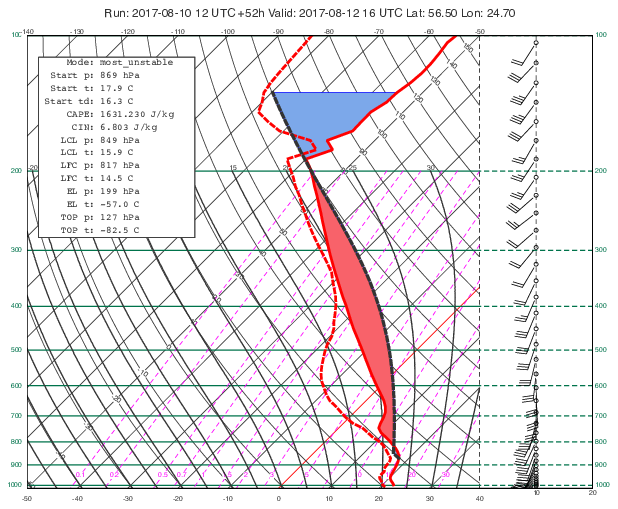
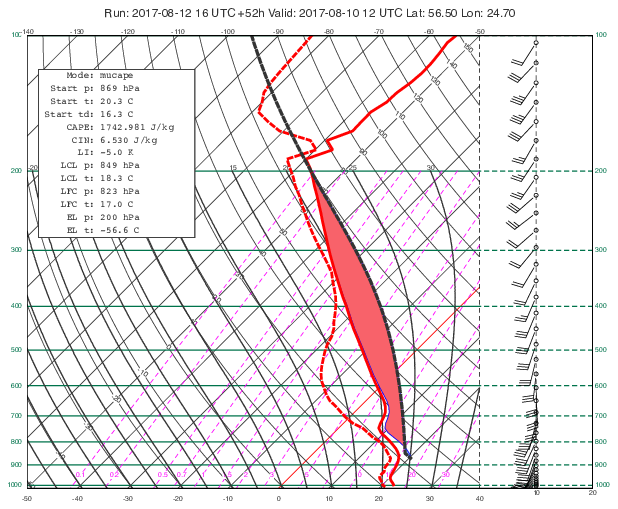
Add and update parcel path gallery examples

diff --git a/docs/gallery/parcel_path_multiple_start_conditions.py b/docs/gallery/parcel_path_multiple_start_conditions.py
@@ -1,0 +1,242 @@
+"""
+GRIB - Multiple parcel path start conditions on Skew-T
+"""
+
+# (C) Copyright 2017- ECMWF.
+#
+# This software is licensed under the terms of the Apache Licence Version 2.0
+# which can be obtained at http://www.apache.org/licenses/LICENSE-2.0.
+#
+# In applying this licence, ECMWF does not waive the privileges and immunities
+# granted to it by virtue of its status as an intergovernmental organisation
+# nor does it submit to any jurisdiction.
+#
+
+import metview as mv
+
+# Note: at least Metview version 5.17.0 is required
+
+
+def make_title_text(prof):
+    """
+    Utility function to generate text for plot title
+    """
+
+    # get profile info for title
+    info = mv.thermo_data_info(prof)
+
+    # obs
+    if "station" in info:
+        t1 = "{} {} UTC WMO Id: {}".format(
+            int(info["date"]), int(info["time"]), int(info["station"])
+        )
+    # fc or an
+    else:
+        t1 = "Run: {} UTC +{}h Valid: {} UTC".format(
+            info["base_date"].strftime("%Y-%m-%d %H"),
+            int(info["step"]),
+            info["valid_date"].strftime("%Y-%m-%d %H"),
+        )
+
+    t2 = "Lat: {:.2f} Lon: {:.2f}".format(info["lat"], info["lon"])
+    return [t1, t2]
+
+
+def make_box_text(parcels, has_top=False):
+    """
+    Utility function to generate text for parcel info box
+    """
+
+    t = " <b>{:<9}{:>5}{:>5}{:>4}{:>5}{:>5}{:>5}</b>".format(
+        "PARCEL", "CAPE", "CIN", "LI", "LCL", "LFC", "EL"
+    )
+
+    if has_top:
+        t += "<b>{:>5}</b>".format("TOP")
+
+    t += "<b>{:^13}</b>".format("START")
+
+    txt = [t.replace(" ", "&nbsp;")]
+    for p in parcels:
+        if p is None:
+            continue
+
+        t = " {:<9}{:5.0f}{:5.0f}".format(p["start"]["mode"], p["cape"], p["cin"])
+
+        v = p.get("li", None)
+        if v is not None:
+            t += "{:4.0f}".format(v)
+        else:
+            t += "{:>4}".format("-")
+
+        v = p.get("lcl", None)
+        if v is not None:
+            t += "{:5.0f}".format(v["p"])
+        else:
+            t += "{:>5}".format("-")
+
+        v = p.get("lfc", None)
+        if v is not None:
+            t += "{:5.0f}".format(v["p"])
+        else:
+            t += "{:>5}".format("-")
+
+        v = p.get("el", None)
+        if v is not None:
+            t += "{:5.0f}".format(v["p"])
+        else:
+            t += "{:>5}".format("-")
+
+        if has_top:
+            v = p.get("top", None)
+            if v is not None:
+                t += "{:5.0f}".format(v["p"])
+            else:
+                t += "{:>5}".format("-")
+
+        t += "{:6.0f}".format(p["start"]["p"])
+        t += "{:5.1f}".format(p["start"]["t"])
+
+        txt.append(t.replace(" ", "&nbsp;"))
+
+    return txt
+
+
+filename = "thermo_global_5.grib"
+
+# getting data
+use_mars = False
+
+# getting forecast data from MARS
+if use_mars:
+    # retrieve data from MARS
+    # low res global data
+    ret_core = {
+        "date": 20220604,
+        "time": 12,
+        "step": 12,
+        "type": "fc",
+        "levtype": "ml",
+        "area": [90, -180, -90, 180],
+        "grid": [5, 5],
+    }
+
+    # forecast fields on model levels 60-137 (bottom is ML=137)
+    fs_ml = mv.retrieve(
+        **ret_core,
+        levelist=[60, "TO", 137],
+        param=["t", "q", "u", "v"],
+    )
+
+    # log surface pressure (lnsp) is defined on ML-1!
+    lnsp = mv.retrieve(**ret_core, levelist=1, param=["lnsp"])
+
+    mv.write(filename, mv.merge(fs_ml, lnsp))
+    g = mv.read(filename)
+# read data from file
+else:
+    if mv.exist(filename):
+        g = mv.read(filename)
+    else:
+        g = mv.gallery.load_dataset(filename)
+
+
+# extract thermo profile
+location = [-5, -60]  # lat, lon
+prof = mv.thermo_grib(coordinates=location, data=g)
+
+# compute parcels paths with various options
+options = [
+    {"mode": "surface"},
+    {"mode": "ml50"},
+    {"mode": "ml100"},
+    {"mode": "mucape", "layer_depth": 300},
+]
+
+parcels = []
+for opt in options:
+    parcels.append(mv.thermo_parcel_path(prof, **opt))
+
+# plot the mucape parcel path only
+parcel = parcels[-1]
+
+# create plot object for parcel areas
+parcel_area = mv.thermo_parcel_area(parcel)
+
+# create plot object for parcel path
+parcel_vis = mv.xy_curve(parcel["t"], parcel["p"], "charcoal", "dash", 6)
+
+# define t and td profile style
+prof_vis = mv.mthermo(
+    thermo_temperature_line_thickness=5, thermo_dewpoint_line_thickness=5
+)
+
+# define wind plotting style
+prof_wind_style = mv.mwind(
+    wind_thinning_factor=2,
+    wind_field_type="flags",
+    wind_flag_colour="magenta",
+    wind_flag_length=0.8,
+    wind_flag_origin_marker="dot",
+    wind_flag_origin_marker_size=0.2,
+)
+
+# define thermodynamic grid
+grid = mv.mthermogrid(
+    thermo_isotherm_colour="RGB(0.2577,0.6364,0.5039)",
+    thermo_isotherm_reference_colour="blue",
+    thermo_dry_adiabatic_colour="grey",
+    thermo_dry_adiabatic_label_frequency=2,
+    thermo_mixing_ratio_colour="RGB(0.2577,0.6364,0.5039)",
+    thermo_mixing_ratio_label_colour="RGB(0.2577,0.6364,0.5039)",
+    thermo_mixing_ratio_label_font_size=0.4,
+)
+
+# define the thermodynamic view
+view = mv.thermoview(
+    type="skewt",
+    minimum_temperature=-120,
+    maximum_temperature=40,
+    top_pressure=100,
+    subpage_clipping="on",
+    subpage_y_position=20,
+    subpage_y_lenght=70,
+)
+
+# define title
+txt = make_title_text(prof)
+title = mv.mtext(text_lines=txt, text_font_size=0.5, text_colour="charcoal")
+
+# create info box - make sure font is monospace
+txt = make_box_text(parcels)
+info_box = mv.mtext(
+    text_lines=txt,
+    text_font="courier",
+    text_font_size=0.4,
+    text_colour="charcoal",
+    text_justification="left",
+    text_mode="positional",
+    text_box_x_position=3.5,
+    text_box_y_position=0.9,
+    text_box_x_length=12,
+    text_box_y_length=len(txt) * 0.45 + 0.4,
+    text_box_blanking="on",
+    text_border="on",
+    text_border_colour="charcoal",
+)
+
+# define the output plot file
+mv.setoutput(mv.pdf_output(output_name="parcel_path_multiple_start_conditions"))
+
+# plot the profile, parcel areas, parcel path and info box together
+mv.plot(
+    view,
+    parcel_area,
+    prof,
+    prof_vis,
+    prof_wind_style,
+    parcel_vis,
+    grid,
+    title,
+    info_box,
+)

diff --git a/docs/gallery/parcel_path_max_cape.py b/docs/gallery/parcel_path_max_cape.py
@@ -14,6 +14,8 @@ GRIB - Parcel with Maximum CAPE on Skew-T
 
 import metview as mv
 
+# Note: at least Metview version 5.17.0 is required
+
 # getting data
 use_mars = False
 
@@ -43,7 +45,7 @@ location = [56.5, 24.7]  # lat, lon
 prof = mv.thermo_grib(coordinates=location, data=g)
 
 # compute parcel path - maximum cape up to 700 hPa
-parcel = mv.thermo_parcel_path(prof, {"mode": "most_unstable", "top_p": 700})
+parcel = mv.thermo_parcel_path(prof, mode="mucape", top_p=700)
 
 # create plot object for parcel areas
 parcel_area = mv.thermo_parcel_area(parcel)
@@ -68,15 +70,11 @@ view = mv.thermoview(
 # get profile info for title
 info = mv.thermo_data_info(prof)
 
-# get base and valid date from the first field
-b_dt = mv.base_date(g[0])
-v_dt = mv.valid_date(g[0])
-
 # define title
 title_txt = "Run: {} UTC +{}h Valid: {} UTC Lat: {:.2f} Lon: {:.2f}".format(
-    b_dt.strftime("%Y-%m-%d %H"),
+    info["valid_date"].strftime("%Y-%m-%d %H"),
     int(info["step"]),
-    v_dt.strftime("%Y-%m-%d %H"),
+    info["base_date"].strftime("%Y-%m-%d %H"),
     info["lat"],
     info["lon"],
 )
@@ -91,6 +89,7 @@ txt.append("  Start t: {:.1f} C".format(parcel["start"]["t"]))
 txt.append(" Start td: {:.1f} C".format(parcel["start"]["td"]))
 txt.append("     CAPE: {:.3f} J/kg".format(parcel["cape"]))
 txt.append("      CIN: {:.3f} J/kg".format(parcel["cin"]))
+txt.append("       LI: {:.1f} K".format(parcel["li"]))
 
 if parcel["lcl"] is not None:
     txt.append("    LCL p: {:.0f} hPa".format(parcel["lcl"]["p"]))
@@ -104,9 +103,6 @@ if parcel["el"] is not None:
     txt.append("     EL p: {:.0f} hPa".format(parcel["el"]["p"]))
     txt.append("     EL t: {:.1f} C".format(parcel["el"]["t"]))
 
-if parcel["top"] is not None:
-    txt.append("    TOP p: {:.0f} hPa".format(parcel["top"]["p"]))
-    txt.append("    TOP t: {:.1f} C".format(parcel["top"]["t"]))
 
 # create info box - make sure font is monospace
 info_box = mv.mtext(

diff --git a/docs/gallery/parcel_path_tephigram_grib.py b/docs/gallery/parcel_path_tephigram_grib.py
@@ -1,5 +1,5 @@
 """
-GRIB - Parcel Method on Skew-T
+GRIB - Parcel Path from Surface on Tephigram
 """
 
 # (C) Copyright 2017- ECMWF.
@@ -14,6 +14,8 @@ GRIB - Parcel Method on Skew-T
 
 import metview as mv
 
+# Note: at least Metview version 5.17.0 is required
+
 # read GRIB data
 filename = "thermo_profile.grib"
 if mv.exist(filename):
@@ -25,7 +27,7 @@ else:
 prof = mv.thermo_grib(coordinates=[5, 0], data=g)
 
 # compute parcel path - start from surface
-parcel = mv.thermo_parcel_path(prof)
+parcel = mv.thermo_parcel_path(prof, mode="surface")
 
 # create plot object for parcel areas
 parcel_area = mv.thermo_parcel_area(parcel)
@@ -40,10 +42,10 @@ prof_vis = mv.mthermo(
 
 # define the thermodynamic view
 view = mv.thermoview(
-    type="skewt",
-    minimum_temperature=-140,
-    maximum_temperature=40,
-    top_pressure=50,
+    type="tephigram",
+    minimum_temperature=-110,
+    maximum_temperature=30,
+    # top_pressure=50,
     subpage_clipping="ON",
 )
 
@@ -63,6 +65,7 @@ txt.append("     Mode: " + parcel["start"]["mode"])
 txt.append("  Start p: {:.0f} hPa".format(parcel["start"]["p"]))
 txt.append("  Start t: {:.1f} C".format(parcel["start"]["t"]))
 txt.append(" Start td: {:.1f} C".format(parcel["start"]["td"]))
+txt.append("       LI: {:.1f} K".format(parcel["li"]))
 txt.append("     CAPE: {:.3f} J/kg".format(parcel["cape"]))
 txt.append("      CIN: {:.3f} J/kg".format(parcel["cin"]))
 
@@ -100,7 +103,7 @@ info_box = mv.mtext(
 )
 
 # define the output plot file
-mv.setoutput(mv.pdf_output(output_name="parcel_path_skewt_grib"))
+mv.setoutput(mv.pdf_output(output_name="parcel_path_tephigram_grib"))
 
 # plot the profile, parcel areas, parcel path and info box together
 mv.plot(view, parcel_area, prof, prof_vis, parcel_vis, title, info_box)
